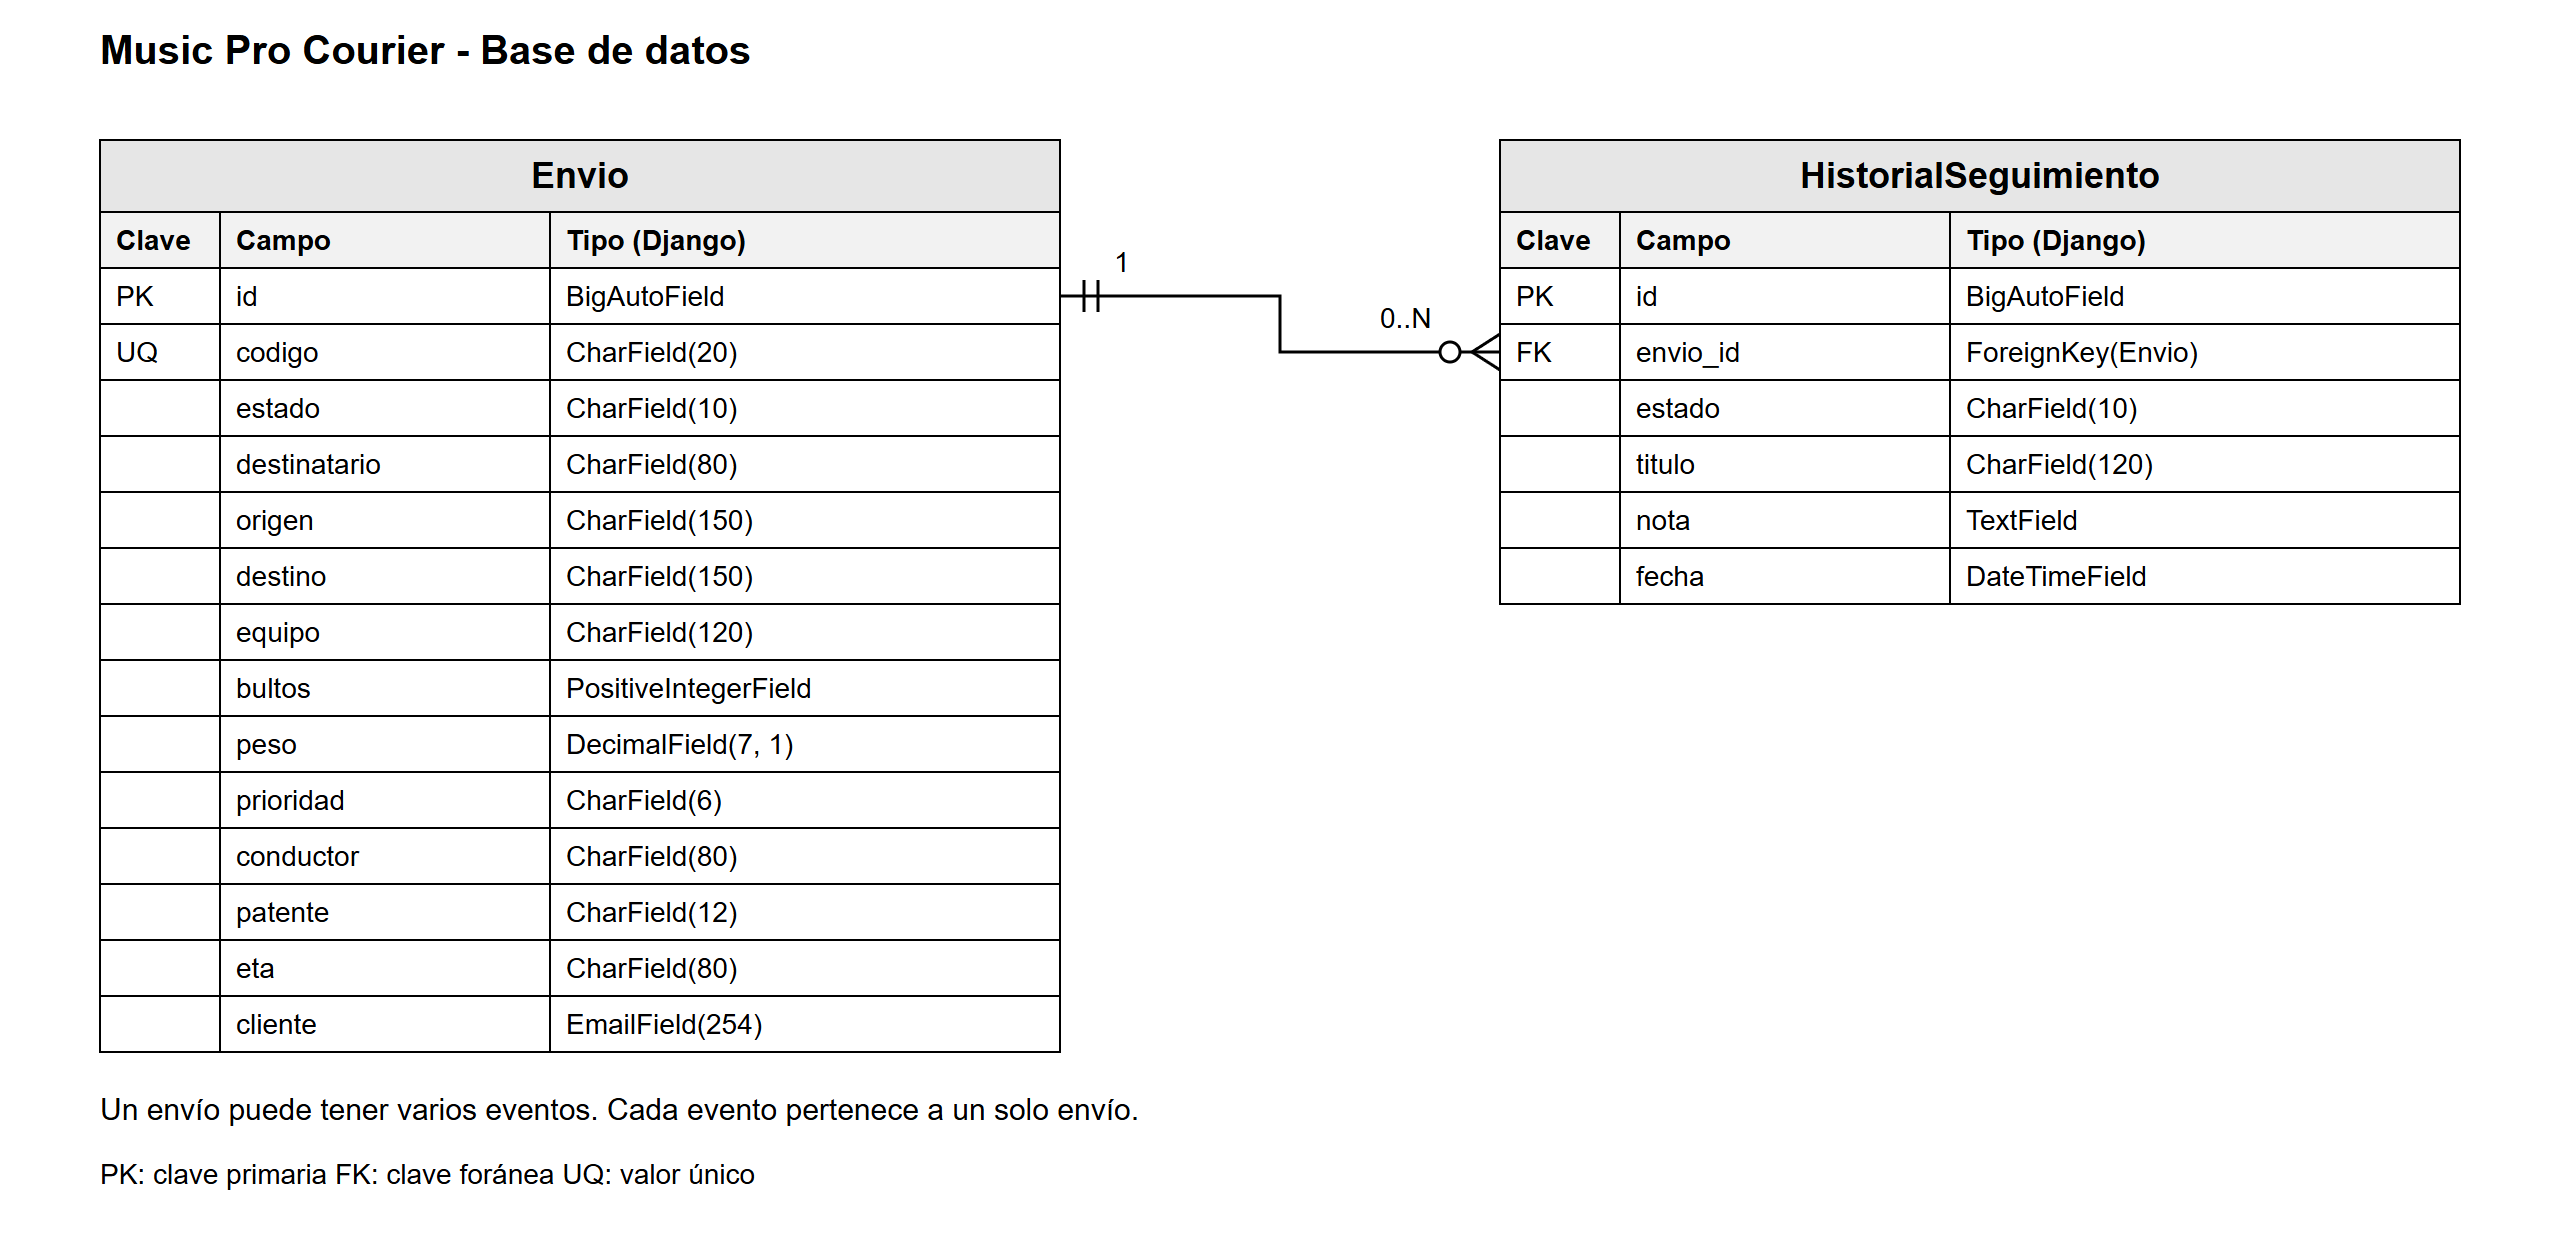
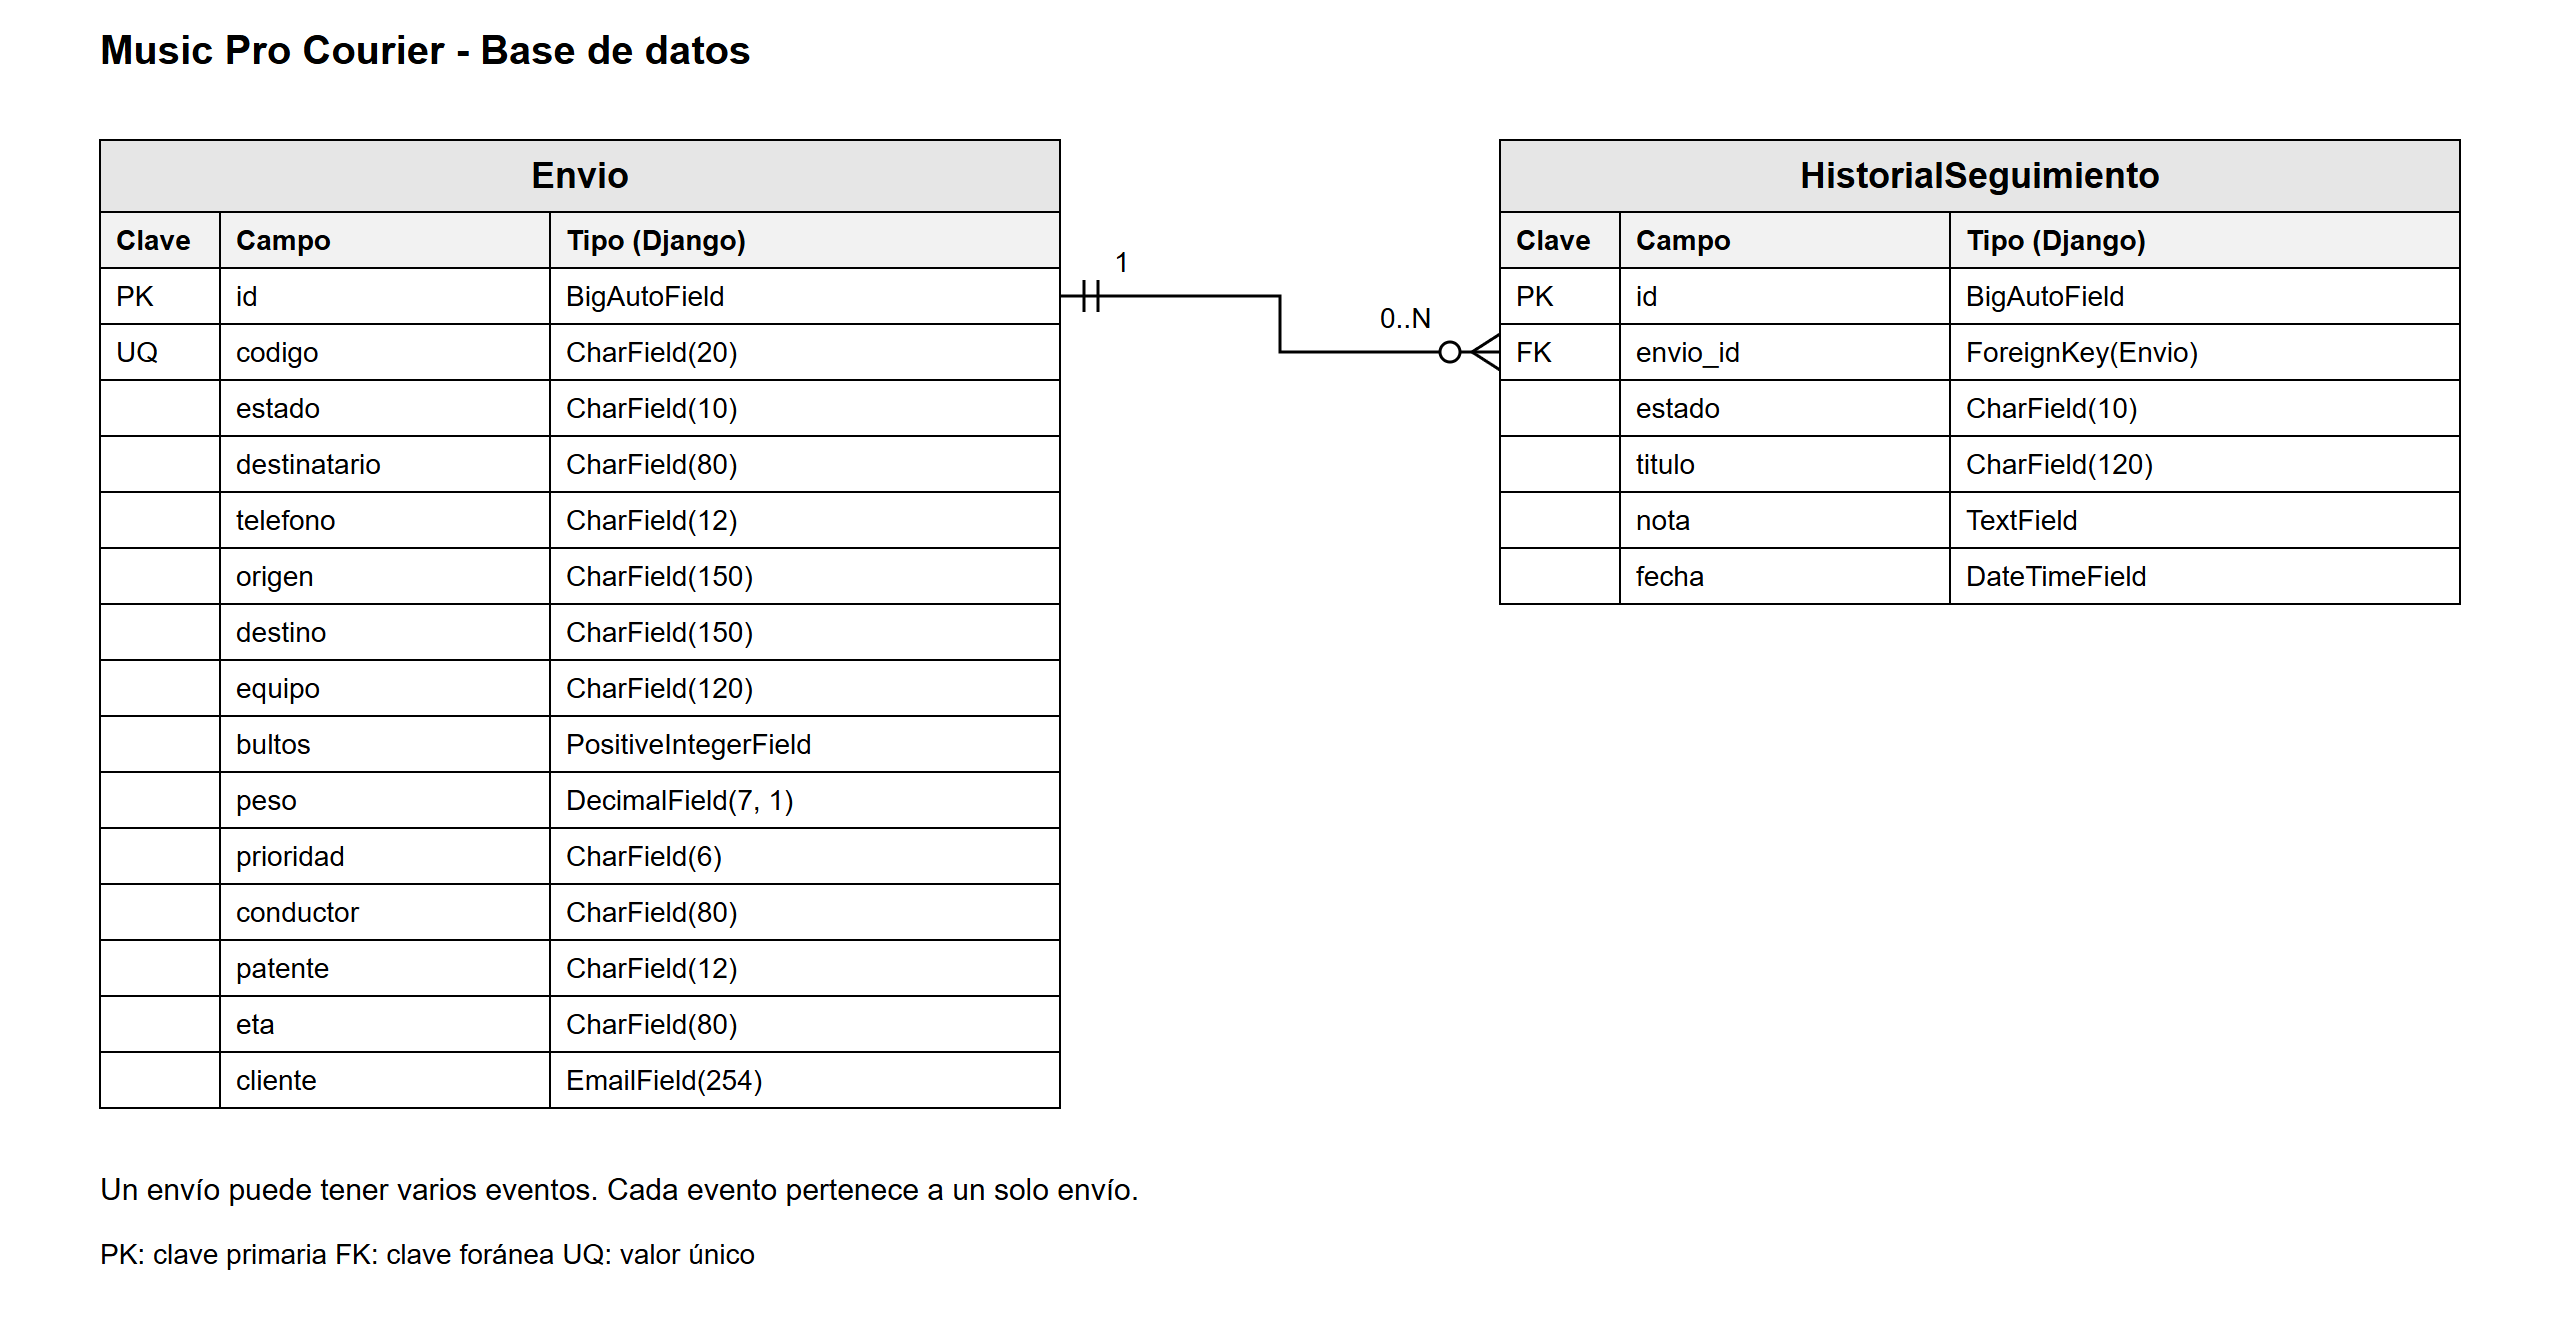
Agrega teléfono de contacto y generación con Faker en formato chileno

diff --git a/bibliotecainacap/core/management/commands/generar_datos.py b/bibliotecainacap/core/management/commands/generar_datos.py
@@ -36,7 +36,8 @@ class Command(BaseCommand):
         # Distintos despachos pueden repetir cliente, destino y conductor.
         # Faker genera un catálogo acotado para no crear un millón de direcciones.
         destinos = [
-            (fake.company()[:80], fake.street_address()[:150], f"cliente{i}@musicpro.test")
+            (fake.company()[:80], fake.street_address()[:150],
+             f"cliente{i}@musicpro.test", fake.numerify(text="+569########"))
             for i in range(min(cantidad, 1000))
         ]
         conductores = [
@@ -52,12 +53,13 @@ class Command(BaseCommand):
                 hasta = min(desde + tamano_lote, cantidad)
                 envios = []
                 for numero in range(desde + 1, hasta + 1):
-                    destinatario, destino, cliente = fake.random_element(destinos)
+                    destinatario, destino, cliente, telefono = fake.random_element(destinos)
                     estado = fake.random_element(estados)
                     conductor, patente = fake.random_element(conductores)
                     envios.append(Envio(
                         codigo=f"{prefijo}-{numero:07d}", estado=estado,
-                        destinatario=destinatario, origen="Bodega Central · Quilicura",
+                        destinatario=destinatario, telefono=telefono,
+                        origen="Bodega Central · Quilicura",
                         destino=destino, equipo=fake.random_element(equipos),
                         bultos=fake.random_int(min=1, max=100),
                         peso=Decimal(fake.random_int(min=1, max=30000)) / Decimal("10"),

diff --git a/bibliotecainacap/core/tests.py b/bibliotecainacap/core/tests.py
@@ -298,6 +298,8 @@ class GeneracionDatosTests(TestCase):
         self.assertGreaterEqual(HistorialSeguimiento.objects.count(), 1001)
         self.assertLessEqual(HistorialSeguimiento.objects.count(), 4004)
         estados = [codigo for codigo, _ in ESTADOS]
+        for telefono in Envio.objects.values_list("telefono", flat=True):
+            self.assertRegex(telefono, r"^\+569[0-9]{8}$")
         for envio in Envio.objects.order_by("pk")[:10]:
             envio.full_clean()
             self.assertLessEqual(len(envio.codigo), 20)

diff --git a/bibliotecainacap/core/models.py b/bibliotecainacap/core/models.py
@@ -14,6 +14,7 @@ class Envio(models.Model):
     codigo = models.CharField("código", max_length=20, unique=True)
     estado = models.CharField(max_length=10, choices=ESTADOS, default="bodega")
     destinatario = models.CharField(max_length=80)
+    telefono = models.CharField("teléfono de contacto", max_length=12, blank=True)
     origen = models.CharField("origen", max_length=150)
     destino = models.CharField("dirección de destino", max_length=150)
     equipo = models.CharField("instrumentos o equipos", max_length=120)

diff --git a/bibliotecainacap/core/migrations/0003_envio_telefono.py b/bibliotecainacap/core/migrations/0003_envio_telefono.py
@@ -1,0 +1,18 @@
+# Generated by Django 6.1 on 2026-10-14 14:44
+
+from django.db import migrations, models
+
+
+class Migration(migrations.Migration):
+
+    dependencies = [
+        ('core', '0002_indexar_fecha_historial'),
+    ]
+
+    operations = [
+        migrations.AddField(
+            model_name='envio',
+            name='telefono',
+            field=models.CharField(blank=True, max_length=12, verbose_name='teléfono de contacto'),
+        ),
+    ]

diff --git a/bibliotecainacap/core/admin.py b/bibliotecainacap/core/admin.py
@@ -10,7 +10,7 @@ admin.site.index_title = "Administración de transporte y despachos"
 
 @admin.register(Envio)
 class EnvioAdmin(admin.ModelAdmin):
-    list_display = ("codigo", "destinatario", "estado", "prioridad", "cliente")
+    list_display = ("codigo", "destinatario", "telefono", "estado", "prioridad", "cliente")
     list_filter = ("estado", "prioridad")
     search_fields = ("codigo", "destinatario", "cliente")
     ordering = ("-id",)

diff --git a/README.md b/README.md
@@ -30,7 +30,7 @@ Puedes abrirlo con SQLite DB Viewer.
 
 Los modelos están en `core/models.py`:
 
-- **Envio:** código único, estado, destinatario, origen, destino, equipo, bultos,
+- **Envio:** código único, estado, destinatario, teléfono de contacto, origen, destino, equipo, bultos,
   peso, prioridad, conductor, patente, estimación de entrega y correo del cliente.
 - **HistorialSeguimiento:** envío, estado, título, nota y fecha del evento.
 
@@ -48,6 +48,8 @@ que aparece el registro. Los validadores impiden bultos o pesos menores al míni
 - `0001_initial`: crea las tablas de envíos e historial y su relación.
 - `0002_indexar_fecha_historial`: agrega un índice a `fecha` para consultar los
   últimos eventos sin ordenar toda la tabla cuando hay muchos registros.
+- `0003_envio_telefono`: agrega el teléfono de contacto; los registros anteriores
+  conservan sus datos y quedan con el teléfono vacío.
 
 Desde la carpeta que contiene `manage.py`:
 
@@ -96,6 +98,10 @@ registros anteriores. El comando muestra los totales guardados y un código de e
 
 Faker genera nombres y direcciones con `es_CL`. Se reutilizan hasta 1.000 destinos
 y 20 conductores. Los códigos llevan un identificador de carga para evitar repetidos.
+Los teléfonos se generan con `fake.numerify(text="+569########")`: el prefijo
+`+569` queda fijo y cada `#` se reemplaza por un dígito aleatorio. Se guardan como
+texto para conservar el signo `+`. `fake.random_int(min=1, max=100)` genera los
+bultos, y también se usa para el peso y las fechas de prueba.
 `bulk_create` guarda por lotes de 1.000 para limitar la memoria.
 `transaction.atomic()` revierte la carga si ocurre un error. Al terminar se cuentan
 los registros de esa carga para verificar que se guardaron correctamente.
